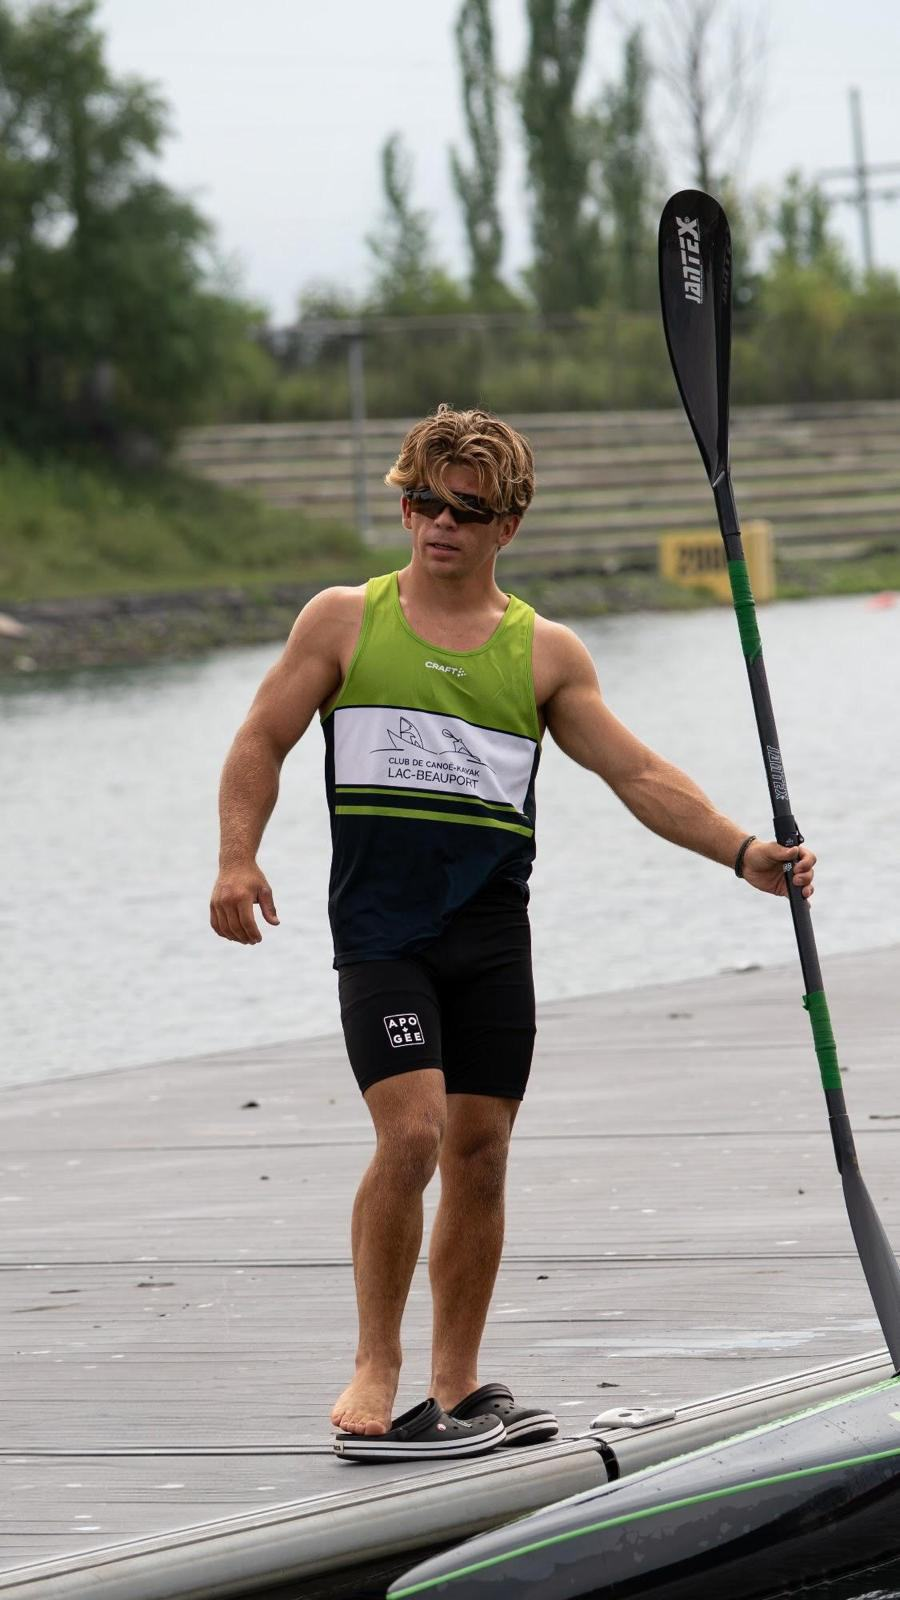
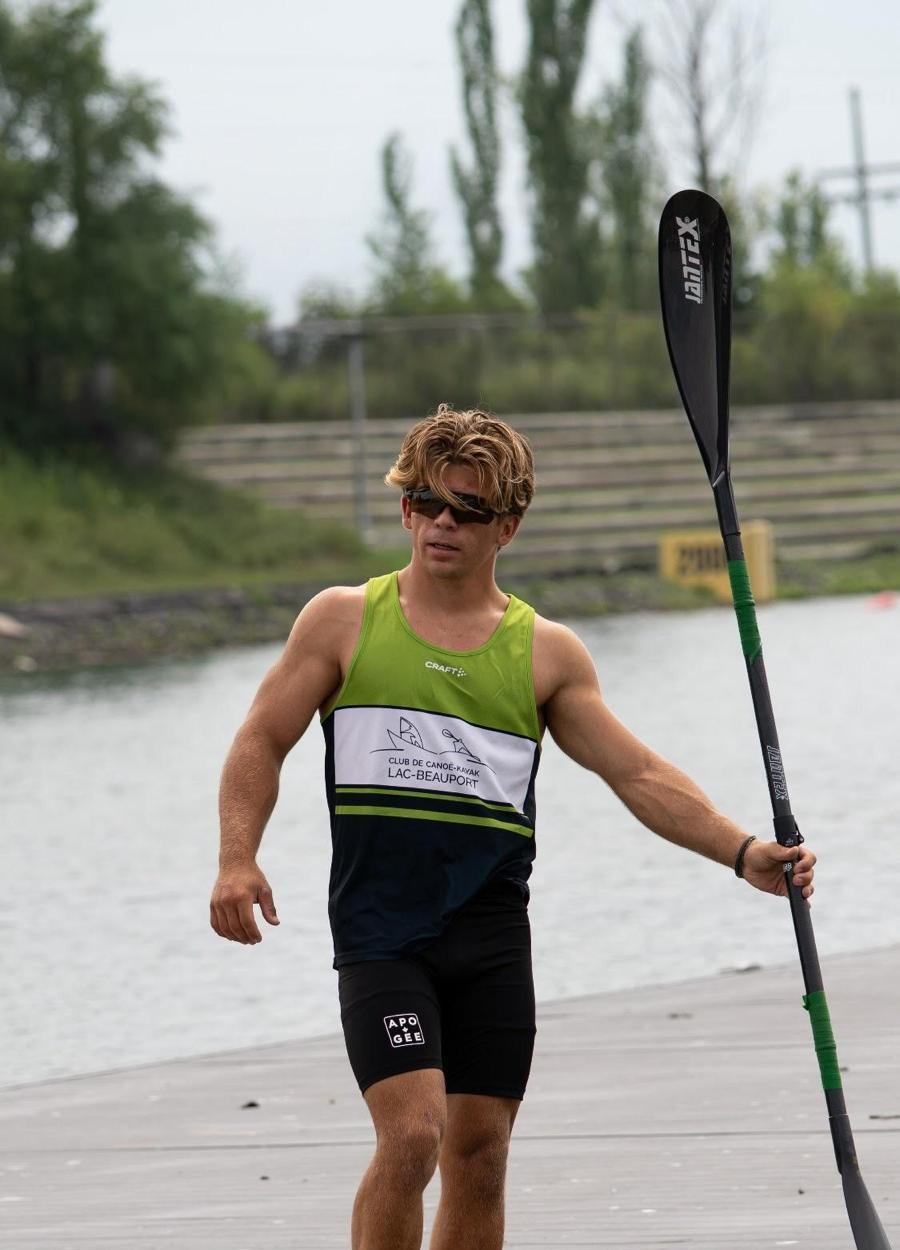
Recadre la photo du parcours au-dessus des pieds.
Le cadrage s'arrete aux tibias pour que les pieds ne soient jamais visibles, peu importe la taille de l'ecran.

diff --git a/index.html b/index.html
@@ -103,7 +103,7 @@
           </div>
           <figure class="split-photo reveal">
             <img
-              src="assets/photos/seance-verticale.jpeg"
+              src="assets/photos/seance-verticale.jpeg?v=2"
               alt="Julien Pomerleau en action, pagaie en main"
               loading="lazy"
             />
